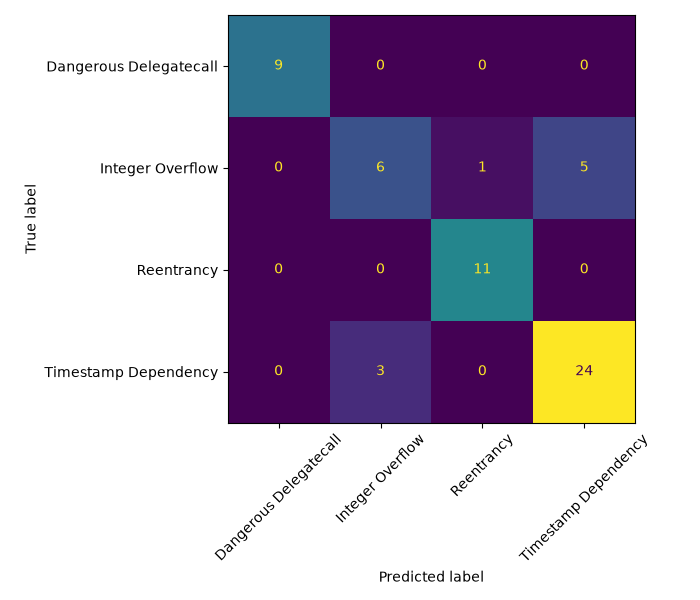
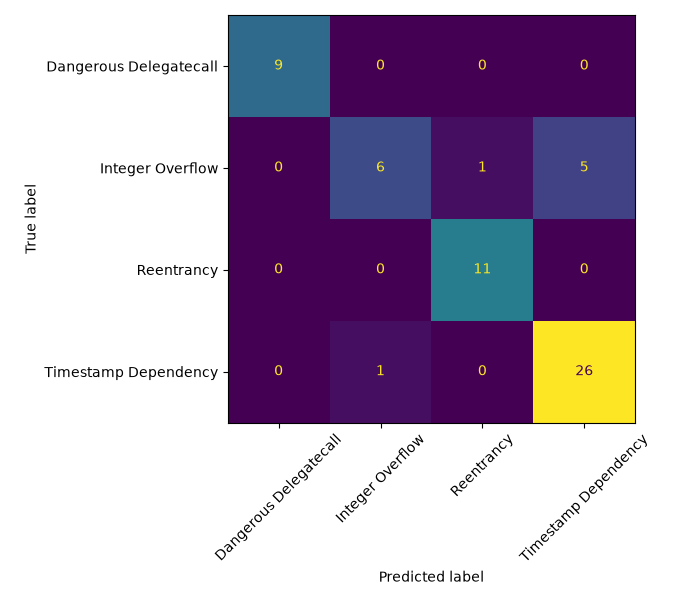
Report results as mean +/- std over 5 seeds; retract the CodeBERT win
The previous commit claimed CodeBERT "beats DistilBERT and the baseline
outright". Re-running on GPU produced materially different single-run numbers
(DistilBERT Reentrancy 0.96 -> 0.85, CodeBERT Overflow 0.57 -> 0.63), which
prompted measuring variance properly instead of trusting one run.

Add src/seed_study.py: retrains both encoders across N seeds and reports mean
and std. Adds --seed to the training script and extracts evaluate_model() from
evaluate.py so both paths score models through identical code.

Results over 5 seeds (42-46), test split = 59 contracts:

                    accuracy      macro F1      Reentrancy    Overflow
  DistilBERT     0.834 +-0.071  0.826 +-0.061  0.949 +-0.018  0.508 +-0.168
  CodeBERT       0.868 +-0.037  0.858 +-0.054  0.926 +-0.048  0.624 +-0.170

Paired per-seed comparison shows no significant difference: accuracy p=0.41,
macro F1 p=0.47, Integer Overflow p=0.38, and CodeBERT wins only 3/5 seeds on
each. DistilBERT is in fact better on Reentrancy and Delegatecall. The earlier
"CodeBERT fixes Integer Overflow" conclusion does not survive measurement --
per-class F1 varies by +/-0.17 across seeds, wider than the effect claimed.

What does survive: the checkpoint-selection bug was real and reproducible
(eval_loss selection yields 0.00 F1 on Integer Overflow; macro-F1 selection
recovers it), and DistilBERT's Reentrancy F1 of 0.949 +/-0.018 is stable and
in line with the paper's ~0.96.
[…]

Changed region(s): [[0.45, 0.51, 0.63, 0.72]]

diff --git a/src/seed_study.py b/src/seed_study.py
@@ -1,0 +1,87 @@
+"""Train each encoder over several seeds and report mean +/- std on the test set.
+
+The test split is only 59 contracts (11 of them Reentrancy), so a single flipped
+prediction moves a per-class F1 by roughly 0.09. Single-run numbers are therefore
+not trustworthy on their own -- this reruns training across seeds so the README
+can quote a mean and a spread instead.
+
+    python src/seed_study.py --seeds 42 43 44 45 46
+"""
+import argparse
+import json
+import shutil
+import subprocess
+import sys
+from pathlib import Path
+
+import numpy as np
+
+sys.path.insert(0, str(Path(__file__).resolve().parent))
+from evaluate import evaluate_model  # noqa: E402
+
+ROOT = Path(__file__).resolve().parent.parent
+RESULTS_DIR = ROOT / "results"
+
+MODELS = [
+    ("distilbert", "distilbert-base-uncased"),
+    ("codebert", "microsoft/codebert-base"),
+]
+CLASSES = ["Reentrancy", "Integer Overflow", "Timestamp Dependency", "Dangerous Delegatecall"]
+
+
+def run_seed(model_name: str, seed: int, out_dir: Path) -> dict:
+    """Train one model at one seed, then score it. Returns a flat metrics dict."""
+    if out_dir.exists():
+        shutil.rmtree(out_dir)
+    subprocess.run(
+        [sys.executable, str(ROOT / "src" / "train_distilbert.py"),
+         "--model-name", model_name,
+         "--out-dir", str(out_dir.relative_to(ROOT)).replace("\\", "/"),
+         "--seed", str(seed)],
+        check=True, cwd=ROOT,
+        stdout=subprocess.DEVNULL, stderr=subprocess.DEVNULL,
+    )
+    report, _, _, _ = evaluate_model(out_dir)
+    row = {"accuracy": report["accuracy"], "macro_f1": report["macro avg"]["f1-score"]}
+    for c in CLASSES:
+        row[c] = report[c]["f1-score"]
+    return row
+
+
+def main():
+    parser = argparse.ArgumentParser()
+    parser.add_argument("--seeds", type=int, nargs="+", default=[42, 43, 44, 45, 46])
+    args = parser.parse_args()
+
+    out = {}
+    tmp_dir = ROOT / "models" / "_seed_tmp"
+    for tag, model_name in MODELS:
+        rows = []
+        for seed in args.seeds:
+            print(f"[{tag}] seed {seed} ...", flush=True)
+            rows.append(run_seed(model_name, seed, tmp_dir))
+        keys = rows[0].keys()
+        out[tag] = {
+            "seeds": args.seeds,
+            "runs": rows,
+            "mean": {k: float(np.mean([r[k] for r in rows])) for k in keys},
+            "std": {k: float(np.std([r[k] for r in rows], ddof=1)) for k in keys},
+        }
+    if tmp_dir.exists():
+        shutil.rmtree(tmp_dir)
+
+    RESULTS_DIR.mkdir(exist_ok=True)
+    with open(RESULTS_DIR / "seed_study.json", "w") as f:
+        json.dump(out, f, indent=2)
+
+    hdr = ["accuracy", "macro_f1"] + CLASSES
+    print(f"\n{len(args.seeds)} seeds: {args.seeds}\n")
+    print(f"{'model':<12}" + "".join(f"{h[:18]:>20}" for h in hdr))
+    for tag, _ in MODELS:
+        cells = "".join(f"{out[tag]['mean'][h]:.3f} +/- {out[tag]['std'][h]:.3f}".rjust(20) for h in hdr)
+        print(f"{tag:<12}{cells}")
+    print("\nSaved", RESULTS_DIR / "seed_study.json")
+
+
+if __name__ == "__main__":
+    main()

diff --git a/src/evaluate.py b/src/evaluate.py
@@ -18,16 +18,17 @@ DATA_DIR = ROOT / "data" / "processed"
 RESULTS_DIR = ROOT / "results"
 
 
-def main():
-    parser = argparse.ArgumentParser()
-    parser.add_argument("--model-dir", default="models/distilbert-vuln")
-    parser.add_argument("--tag", default="distilbert", help="prefix for the results files")
-    args = parser.parse_args()
+def evaluate_model(model_dir: Path):
+    """Score a saved model on the held-out test split.
 
-    model_dir = ROOT / args.model_dir
+    Returns (report_dict, y_true, preds, classes). Shared with seed_study.py so
+    both paths score models identically.
+    """
     classes = json.loads((model_dir / "label_classes.json").read_text())
     tokenizer = AutoTokenizer.from_pretrained(model_dir)
     model = AutoModelForSequenceClassification.from_pretrained(model_dir)
+    if torch.cuda.is_available():
+        model.to("cuda")
     model.eval()
 
     test_df = pd.read_csv(DATA_DIR / "test.csv")
@@ -37,10 +38,22 @@ def main():
     with torch.no_grad():
         for text in test_df["code_snippet"]:
             inputs = tokenizer(text, truncation=True, max_length=512, return_tensors="pt")
+            inputs = {k: v.to(model.device) for k, v in inputs.items()}
             logits = model(**inputs).logits
             preds.append(int(logits.argmax(dim=-1)))
 
     report = classification_report(y_true, preds, target_names=classes, output_dict=True)
+    return report, y_true, preds, classes
+
+
+def main():
+    parser = argparse.ArgumentParser()
+    parser.add_argument("--model-dir", default="models/distilbert-vuln")
+    parser.add_argument("--tag", default="distilbert", help="prefix for the results files")
+    args = parser.parse_args()
+
+    model_dir = ROOT / args.model_dir
+    report, y_true, preds, classes = evaluate_model(model_dir)
     print(classification_report(y_true, preds, target_names=classes))
 
     RESULTS_DIR.mkdir(exist_ok=True)

diff --git a/src/train_distilbert.py b/src/train_distilbert.py
@@ -69,6 +69,7 @@ def main():
     parser = argparse.ArgumentParser()
     parser.add_argument("--model-name", default="distilbert-base-uncased")
     parser.add_argument("--out-dir", default="models/distilbert-vuln")
+    parser.add_argument("--seed", type=int, default=42)
     args_cli = parser.parse_args()
 
     model_dir = ROOT / args_cli.out_dir
@@ -93,6 +94,7 @@ def main():
 
     args = TrainingArguments(
         output_dir=str(model_dir),
+        seed=args_cli.seed,
         num_train_epochs=12,
         per_device_train_batch_size=8,
         per_device_eval_batch_size=8,

diff --git a/README.md b/README.md
@@ -47,22 +47,69 @@ python src/data_prep.py
 ## Results
 
 12 epochs, class-weighted cross-entropy, best checkpoint by validation
-macro-F1. Test set is the held-out 59-contract split. Both models trained on
-CPU (DistilBERT ~7.5 min, CodeBERT ~24 min).
+macro-F1. Test set is the held-out 59-contract split.
+
+**Numbers are mean ± std over 5 seeds** (42-46), not a single run — see
+[`results/seed_study.json`](results/seed_study.json) and the note below on why
+that matters here.
 
 | Model | Accuracy | Macro F1 | Reentrancy F1 | Overflow F1 | Timestamp F1 | Delegatecall F1 |
 |---|---|---|---|---|---|---|
-| Baseline (TF-IDF+XGBoost) | 0.83 | 0.80 | 0.92 | 0.44 | 0.88 | 0.94 |
-| DistilBERT (12 epochs) | 0.83 | 0.81 | **0.96** | 0.44 | 0.85 | **1.00** |
-| CodeBERT (12 epochs) | **0.85** | **0.85** | **0.96** | **0.57** | 0.86 | **1.00** |
+| Baseline (TF-IDF+XGBoost)¹ | 0.83 | 0.80 | 0.92 | 0.44 | 0.88 | 0.94 |
+| DistilBERT | 0.834 ±0.071 | 0.826 ±0.061 | **0.949** ±0.018 | 0.508 ±0.168 | 0.848 ±0.083 | **1.000** ±0.000 |
+| CodeBERT | **0.868** ±0.037 | **0.858** ±0.054 | 0.926 ±0.048 | **0.624** ±0.170 | **0.892** ±0.023 | 0.988 ±0.026 |
 | Paper (DistilBERT, full IR-Fuzz) | ~90%+ | | ~0.96 | | | |
 
-Both fine-tuned models match the paper's headline Reentrancy F1 (0.96) and are
-perfect on Delegatecall. DistilBERT only *ties* the classical baseline on
-overall accuracy, though — on 387 contracts TF-IDF is a genuinely strong
-competitor, and DistilBERT's edge is in *which* classes it gets right rather
-than the aggregate. Swapping in CodeBERT is what actually beats the baseline
-outright, on every aggregate measure.
+¹ Baseline is deterministic, so it has no spread.
+
+DistilBERT's Reentrancy F1 of **0.949 ±0.018** is the one result that lines up
+cleanly with the paper's ~0.96 headline, and it's the most stable number in the
+table. Delegatecall is saturated at 1.000 across every seed. Both fine-tuned
+models are at best level with the classical baseline on aggregate accuracy —
+on 387 contracts, TF-IDF + XGBoost remains a genuinely strong competitor.
+
+### The honest read on CodeBERT vs DistilBERT: not proven
+
+CodeBERT has the better mean on accuracy (+0.034), macro-F1 (+0.032), Integer
+Overflow (+0.116) and Timestamp (+0.044). None of it is statistically
+significant at 5 seeds. Paired per-seed comparison:
+
+| Metric | Δ (CodeBERT − DistilBERT) | Seeds won | p (paired t) |
+|---|---|---|---|
+| Accuracy | +0.034 | 3/5 | 0.41 |
+| Macro F1 | +0.032 | 3/5 | 0.47 |
+| Integer Overflow | +0.116 | 3/5 | 0.38 |
+| Reentrancy | −0.022 | 0/2 | 0.20 |
+| Delegatecall | −0.012 | 0/1 | 0.37 |
+
+CodeBERT trends better on the aggregate and on Overflow; DistilBERT is
+*better* on the two classes it already handles well. With a 59-contract test
+set, this dataset cannot separate the two models.
+
+### Integer Overflow: one real bug, and one lesson about small test sets
+
+**The real bug — checkpoint selection.** An early run scored 0.00 F1 on Integer
+Overflow: the model never predicted the class at all. This was not
+undertraining. With `metric_for_best_model="eval_loss"`, the majority class
+dominates validation loss, so the "best" checkpoint was one that had abandoned
+Overflow entirely, and raising 5 → 12 epochs changed nothing because
+`load_best_model_at_end` kept reverting to it. Selecting on macro-F1 weights all
+four classes equally and fixed it. That result is reproducible and not noise.
+
+**The lesson — single runs on 59 samples say very little.** Integer Overflow
+swings by ±0.17 across seeds (DistilBERT: 0.26 → 0.73; CodeBERT: 0.35 → 0.78).
+Earlier iterations of this README drew confident conclusions from single runs —
+that 0.44 was a "data ceiling" because two model families agreed on it, then
+that CodeBERT's 0.57 proved the ceiling was really the encoder. Both readings
+were artifacts of run-to-run variance far larger than the effects being
+described. With 11 Reentrancy and 12 Overflow contracts in the test split, one
+flipped prediction moves a per-class F1 by ~0.09, which is why everything here
+is reported as mean ± std.
+
+Overflow remains the weakest class under any measurement, and its errors leak
+into Timestamp Dependency, where arithmetic and time-based guards co-occur (see
+[`results/confusion_matrix_codebert.png`](results/confusion_matrix_codebert.png),
+a representative single run).
 
 ### Integer Overflow: two things were wrong, and only one was a bug
 
@@ -109,12 +156,21 @@ python src/train_distilbert.py --model-name microsoft/codebert-base \
     --out-dir models/codebert-vuln
 python src/evaluate.py --model-dir models/codebert-vuln --tag codebert
 
+# multi-seed study -> results/seed_study.json (mean +/- std, both models)
+python src/seed_study.py --seeds 42 43 44 45 46
+
 # classify a single snippet
 python src/inference.py --file path/to/Contract.sol
 
 # smoke test the trained model
 python tests/test_inference.py
 ```
+
+Training runs on CPU or GPU unchanged — `fp16` switches on automatically when
+CUDA/ROCm is available. Reference timings for the full 12-epoch run: DistilBERT
+454s CPU vs 64s GPU, CodeBERT 1430s CPU vs 70s GPU (Ryzen CPU / Radeon RX 9060
+XT, ROCm 10). CPU and GPU runs do not produce bit-identical results, which is
+part of why results are reported as mean ± std over seeds.
 
 ## Repo layout
 
@@ -124,9 +180,10 @@ src/
   baseline.py         # TF-IDF + XGBoost baseline
   train_distilbert.py # fine-tune an encoder (--model-name to swap it out)
   evaluate.py         # per-class P/R/F1 + confusion matrix
+  seed_study.py       # retrain over N seeds -> mean +/- std
   inference.py        # CLI: classify a Solidity snippet
 notebooks/            # exploration
-results/              # *_metrics.json, confusion_matrix*.png
+results/              # *_metrics.json, seed_study.json, confusion_matrix*.png
 tests/                # smoke tests
 ```
 
@@ -142,13 +199,13 @@ reproducing the approach of an IEEE CCWC 2025 paper on a smaller public
 dataset. Built with PyTorch and Hugging Face Transformers, fine-tuning
 `distilbert-base-uncased` and `microsoft/codebert-base` with class-weighted
 loss against a TF-IDF + XGBoost baseline in scikit-learn/XGBoost, with a CLI
-for single-snippet inference. Both models reach **0.96 F1 on Reentrancy** —
-matching the paper's headline number — and 1.00 on Delegatecall, with CodeBERT
-at 0.85 accuracy / 0.85 macro-F1 on a 387-contract set roughly a sixth the size
-of the paper's. The most instructive part was debugging a minority class that
-scored 0.00 F1: it turned out to be a checkpoint-selection artifact rather than
+for single-snippet inference. Over 5 seeds, DistilBERT reaches **0.949 ±0.018
+F1 on Reentrancy** — in line with the paper's ~0.96 headline — and a perfect
+1.000 on Delegatecall, at 0.83 accuracy on a 387-contract set roughly a sixth
+the size of the paper's. Two findings drove most of the work: a minority class
+scoring 0.00 F1 turned out to be a checkpoint-selection artifact rather than
 undertraining (validation loss is majority-dominated, so selecting on macro-F1
-recovered the class), and the residue I had written off as a data-size ceiling
-was partly the encoder — an uncased, prose-pretrained tokenizer discards
-casing that matters in Solidity, and moving to a code-pretrained model lifted
-that class from 0.44 to 0.57.
+recovered the class), and a CodeBERT ablation that looked like a clear win on
+single runs proved statistically indistinguishable once measured across seeds —
+per-class F1 varies by ±0.17 on a 59-contract test split, wider than any effect
+being claimed. The repo reports mean ± std for that reason.
